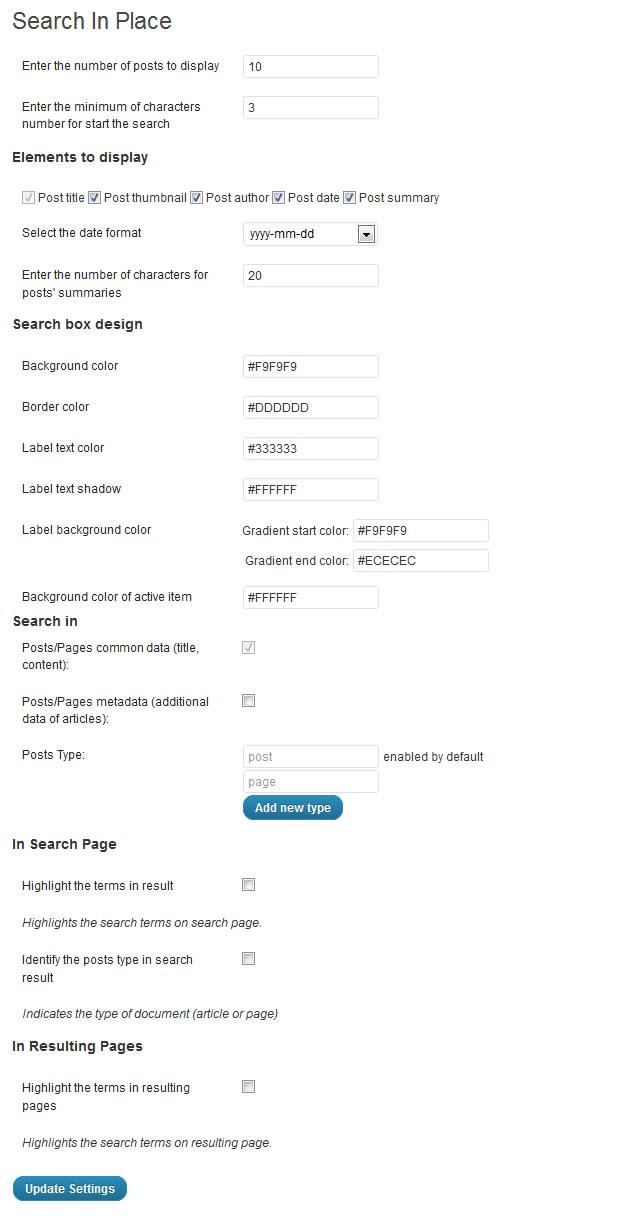
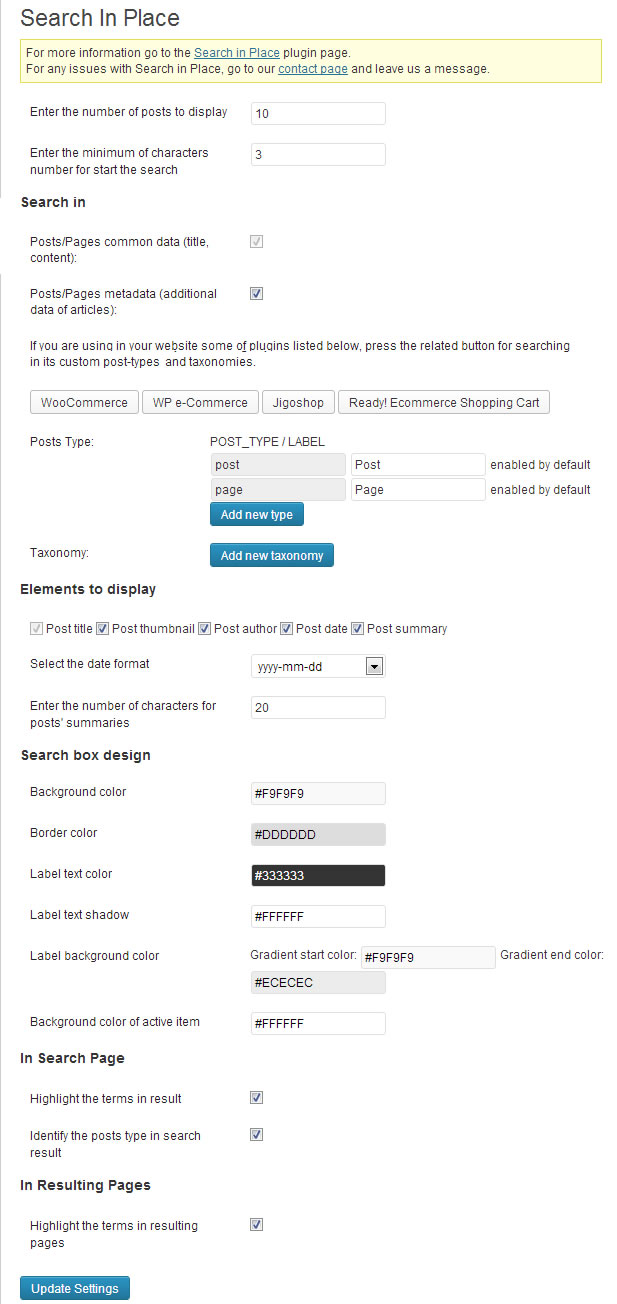
Added new features to the Search in Place
git-svn-id: https://plugins.svn.wordpress.org/search-in-place/trunk@676124 b8457f37-d9ea-0310-8a92-e5e31aec5664

Changed region(s): [[0.0, 0.0, 0.9854, 0.9984], [0.8006, 0.3432, 0.9546, 0.4056], [0.8006, 0.7176, 0.9546, 0.7488]]

diff --git a/php/searchinplace.clss.php b/php/searchinplace.clss.php
@@ -240,6 +240,7 @@ class CodePeopleSearchInPlace {
 							</tr>
 						</tbody>
 					</table>
+					
 					<h3>'.__('Elements to display', $this->text_domain).'</h3>
 					<table class="form-table">	
 						<tbody>
@@ -352,6 +353,19 @@ class CodePeopleSearchInPlace {
 									<input type="checkbox" name="post_metadata" id="post_metadata" onclick="forbiddenOption(this);" />
 								</td>
 							</tr>
+							<tr>
+								<th colspan="2">
+								'.__('If you are using in your website some of plugins listed below, press the related button for searching in its custom post-types and taxonomies.').'
+								</th>
+							</tr>
+							<tr>
+								<th colspan="2">
+								<input type="button" class="button-secondary" value="WooCommerce" onclick="window.alert(\'This feature is available only for the advanced version of Search in Place\');" /> 
+								<input type="button" class="button-secondary" value="WP e-Commerce" onclick="window.alert(\'This feature is available only for the advanced version of Search in Place\');" /> 
+								<input type="button" class="button-secondary" value="Jigoshop" onclick="window.alert(\'This feature is available only for the advanced version of Search in Place\');" /> 
+								<input type="button" class="button-secondary" value="Ready! Ecommerce Shopping Cart" onclick="window.alert(\'This feature is available only for the advanced version of Search in Place\');" /> 
+								</th>
+							</tr>
 							<tr valign="top">
 								<th>
 									'.__('Posts Type:').'
@@ -360,7 +374,16 @@ class CodePeopleSearchInPlace {
 									
 									<input type="text" value="post" disabled style="color:#999999;" class="post-type" />  enabled by default <br />
 									<input type="text" value="page" disabled style="color:#999999;" class="post-type" />  <br />
-							        <input type="button" value="Add new type" class="button-primary" onclick="window.alert(\'This feature is available only on the commercial version\');"/>
+							        <input type="button" value="Add new type" class="button-primary" onclick="window.alert(\'This feature is available only in the commercial version of plugin\');" />
+								</td>
+							</tr>
+							
+							<tr>
+								<th>
+									'.__('Taxonomy:').'
+								</th>
+								<td>
+									<input type="button" id="add_taxonomy" value="Add new taxonomy" class="button-primary" onclick="window.alert(\'The searching in taxonomies is possible only in the commercial version of plugin\');" />
 								</td>
 							</tr>
 						</tbody>
@@ -408,6 +431,7 @@ class CodePeopleSearchInPlace {
 							</td></tr>
 						</tbody>
 					</table>
+					<p style="border:1px solid #FFCC66;background-color:#FFFFCC;padding:10px;">'.__('If you require some of features listed above, don\'t doubt to upgrade to the advanced version of Search in Place', $this->text_domain).'. <a href="http://wordpress.dwbooster.com/content-tools/search-in-place" target="_blank">'.__('CLICK HERE for more information').'</a></p>
 					<input type="hidden" name="search_in_place_submit" value="ok" />
 					<div class="submit"><input type="submit" class="button-primary" value="'.__('Update Settings', $this->text_domain).'" /></div>
 				</form>
